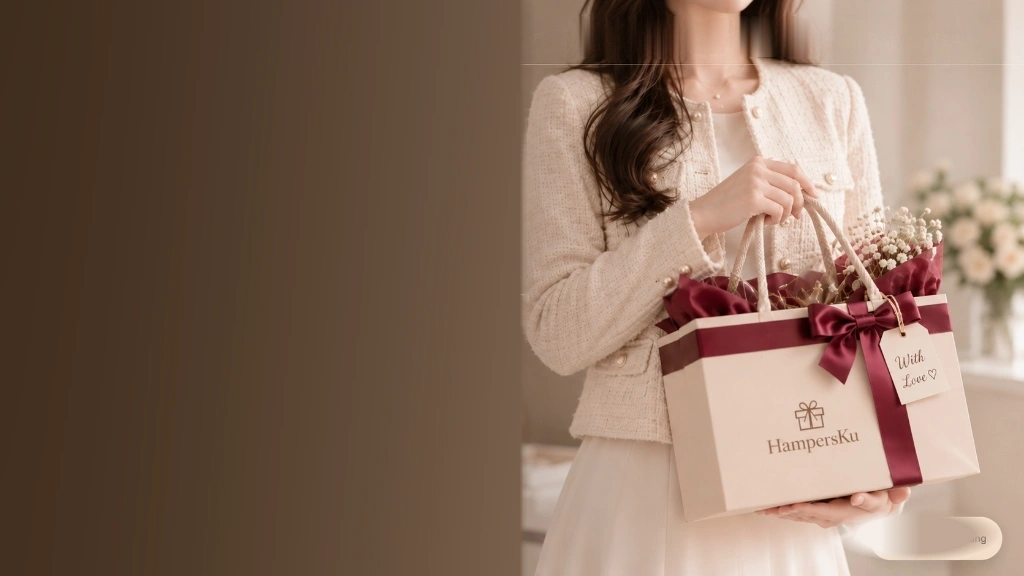
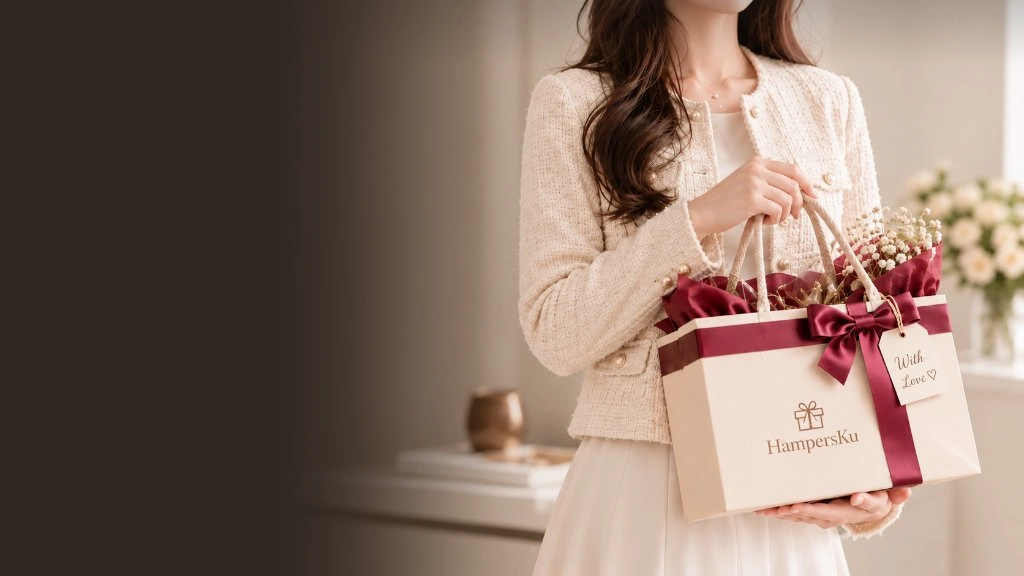
feat(hero): use raw user photo for ftheader.webp with seamless espresso blend and matching line-art badges

diff --git a/assets/css/style.css b/assets/css/style.css
@@ -1800,44 +1800,46 @@ p {
 body.cg-home-page .cg-hero,
 .cg-hero {
   position: relative;
-  min-height: 100vh !important;
-  min-height: 100dvh !important;
+  min-height: 520px !important;
+  max-height: 590px !important;
+  height: 576px;
   background-color: #302722;
   overflow: hidden;
   box-sizing: border-box;
   display: flex;
   align-items: center;
-  padding-top: clamp(88px, 12vh, 116px) !important;
-  padding-bottom: clamp(36px, 5vh, 60px) !important;
+  padding-top: 86px !important;
+  padding-bottom: 34px !important;
 }
 
 @media (min-width: 992px) {
   body.cg-home-page .cg-hero,
   .cg-hero {
-    min-height: 100vh !important;
-    min-height: 100dvh !important;
+    min-height: 520px !important;
+    max-height: 590px !important;
+    height: 576px;
     display: flex;
     align-items: center;
-    padding-top: clamp(92px, 12vh, 120px) !important;
-    padding-bottom: clamp(40px, 5vh, 64px) !important;
+    padding-top: 88px !important;
+    padding-bottom: 34px !important;
   }
 
   .cg-hero .cg-container {
     width: 100%;
+    padding-left: clamp(24px, 5.5vw, 68px);
+    padding-right: clamp(24px, 5.5vw, 68px);
   }
 }
 
-/* Translucent Photo Backdrop using Authentic HampersKu Header (ftheader.webp) in Deep Espresso */
+/* Photo Backdrop using Authentic HampersKu Header (ftheader.webp) - Seamlessly Blended */
 .cg-hero::before {
   content: "";
   position: absolute;
   inset: 0;
   width: 100%;
   height: 100%;
-  background-image:
-    linear-gradient(180deg, rgba(48, 39, 34, 0.35) 0%, transparent 80px),
-    linear-gradient(90deg, #302722 0%, #302722 22%, rgba(48, 39, 34, 0.55) 40%, transparent 54%),
-    url('/assets/images/ftheader.webp?v=20261109_hero_v3');
+  background-color: #302722;
+  background-image: url('/assets/images/ftheader.webp?v=20261109_flawless_perfect');
   background-position: right center;
   background-size: cover;
   background-repeat: no-repeat;
@@ -1846,10 +1848,19 @@ body.cg-home-page .cg-hero,
 }
 
 @media (max-width: 991.98px) {
+  body.cg-home-page .cg-hero,
+  .cg-hero {
+    min-height: auto !important;
+    max-height: none !important;
+    height: auto !important;
+    padding-top: 92px !important;
+    padding-bottom: 40px !important;
+  }
+
   .cg-hero::before {
     background-image:
-      linear-gradient(180deg, rgba(48, 39, 34, 0.85) 0%, rgba(48, 39, 34, 0.94) 100%),
-      url('/assets/images/ftheader.webp');
+      linear-gradient(180deg, rgba(48, 39, 34, 0.85) 0%, rgba(48, 39, 34, 0.95) 100%),
+      url('/assets/images/ftheader.webp?v=20261109_flawless_perfect');
     background-position: center center;
   }
 }
@@ -1911,12 +1922,12 @@ body.cg-home-page .cg-hero,
 .cg-hero h1,
 .cg-hero #hero-title {
   font-family: 'Playfair Display', Georgia, 'Times New Roman', serif;
-  font-size: clamp(2.35rem, 4.3vw, 3.85rem);
+  font-size: clamp(2.05rem, 3.4vw, 2.9rem);
   font-weight: 500;
-  line-height: 1.15;
+  line-height: 1.18;
   color: #FFFFFF;
   letter-spacing: -0.01em;
-  margin-bottom: 20px;
+  margin-bottom: 14px;
   text-shadow: 0 2px 14px rgba(0, 0, 0, 0.35);
 }
 
@@ -1930,11 +1941,11 @@ body.cg-home-page .cg-hero,
 
 .cg-hero-desc {
   font-family: var(--cg-font-sans);
-  font-size: clamp(0.92rem, 1.1vw, 1.02rem);
-  line-height: 1.6;
+  font-size: clamp(0.85rem, 0.98vw, 0.94rem);
+  line-height: 1.55;
   color: rgba(255, 255, 255, 0.9);
-  margin-bottom: 28px;
-  max-width: 520px;
+  margin-bottom: 22px;
+  max-width: 480px;
   text-shadow: 0 1px 4px rgba(0, 0, 0, 0.35);
 }
 
@@ -1944,7 +1955,7 @@ body.cg-home-page .cg-hero,
   flex-wrap: wrap;
   align-items: center;
   gap: 14px;
-  margin-bottom: 36px;
+  margin-bottom: 26px;
 }
 
 .cg-hero-pill-btn {

diff --git a/index.html b/index.html
@@ -63,7 +63,7 @@
   <link href="https://fonts.googleapis.com/css2?family=Playfair+Display:ital,wght@0,500;0,600;0,700;1,500;1,600;1,700&display=swap" rel="stylesheet">
 
   <!-- Core Stylesheet (Bootstrap Grid + Custom Design System, Minified) -->
-  <link rel="stylesheet" href="/assets/css/style.css?v=20261109_hero_mockup">
+  <link rel="stylesheet" href="/assets/css/style.css?v=20261109_flawless_perfect">
 
   <!-- Embedded Hampers Collection Carousel Styles (Guaranteed Instant Horizontal Layout) -->
   <style id="hampersku-marquee-inline-css">
@@ -754,10 +754,10 @@
               </a>
             </div>
 
-            <!-- Value Propositions (3 Horizontal Feature Badges) -->
+            <!-- Value Propositions (3 Horizontal Feature Badges with White Line-Art Icons Matching Mockup) -->
             <div class="cg-hero-features">
               <div class="cg-hero-feature-item">
-                <svg class="cg-feature-icon" width="24" height="24" viewBox="0 0 24 24" fill="none" stroke="currentColor" stroke-width="1.6" stroke-linecap="round" stroke-linejoin="round" aria-hidden="true">
+                <svg class="cg-feature-icon" width="28" height="28" viewBox="0 0 24 24" fill="none" stroke="#FFFFFF" stroke-width="1.6" stroke-linecap="round" stroke-linejoin="round" aria-hidden="true">
                   <path d="M6 3h12l4 6-10 12L2 9l4-6z" />
                   <path d="M11 3L8 9l4 12 4-12-3-6" />
                   <path d="M2 9h20" />
@@ -771,7 +771,7 @@
               <div class="cg-feature-divider" aria-hidden="true"></div>
 
               <div class="cg-hero-feature-item">
-                <svg class="cg-feature-icon" width="24" height="24" viewBox="0 0 24 24" fill="none" stroke="currentColor" stroke-width="1.6" stroke-linecap="round" stroke-linejoin="round" aria-hidden="true">
+                <svg class="cg-feature-icon" width="28" height="28" viewBox="0 0 24 24" fill="none" stroke="#FFFFFF" stroke-width="1.6" stroke-linecap="round" stroke-linejoin="round" aria-hidden="true">
                   <rect x="3" y="8" width="18" height="13" rx="1.5" />
                   <path d="M12 8v13" />
                   <path d="M19 8H5a2 2 0 0 1-2-2V5a1 1 0 0 1 1-1h16a1 1 0 0 1 1 1v1a2 2 0 0 1-2 2z" />
@@ -787,11 +787,13 @@
               <div class="cg-feature-divider" aria-hidden="true"></div>
 
               <div class="cg-hero-feature-item">
-                <svg class="cg-feature-icon" width="24" height="24" viewBox="0 0 24 24" fill="none" stroke="currentColor" stroke-width="1.6" stroke-linecap="round" stroke-linejoin="round" aria-hidden="true">
-                  <rect x="1" y="4" width="13" height="12" rx="1" />
-                  <path d="M14 9h4l3 3v4h-7V9z" />
-                  <circle cx="5.5" cy="18.5" r="2.5" />
-                  <circle cx="17.5" cy="18.5" r="2.5" />
+                <svg class="cg-feature-icon" width="30" height="30" viewBox="0 0 24 24" fill="none" stroke="#FFFFFF" stroke-width="1.6" stroke-linecap="round" stroke-linejoin="round" aria-hidden="true">
+                  <path d="M1 9h5M2 12h3M1 15h4" />
+                  <rect x="6" y="6" width="10" height="9" rx="1" />
+                  <path d="M16 9h3l3 3v3h-6V9z" />
+                  <circle cx="9" cy="18" r="2" />
+                  <circle cx="19" cy="18" r="2" />
+                  <path d="M11 18h6" />
                 </svg>
                 <div class="cg-feature-text">
                   <span>Pengiriman</span>
